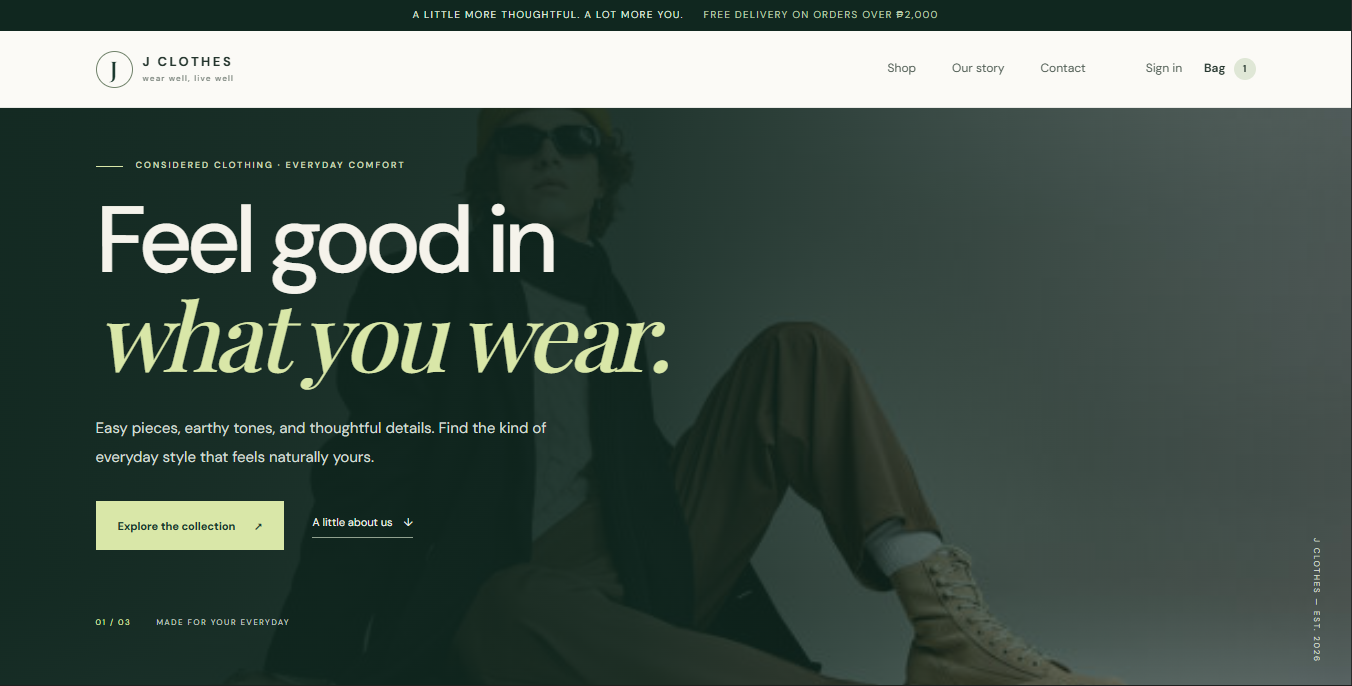
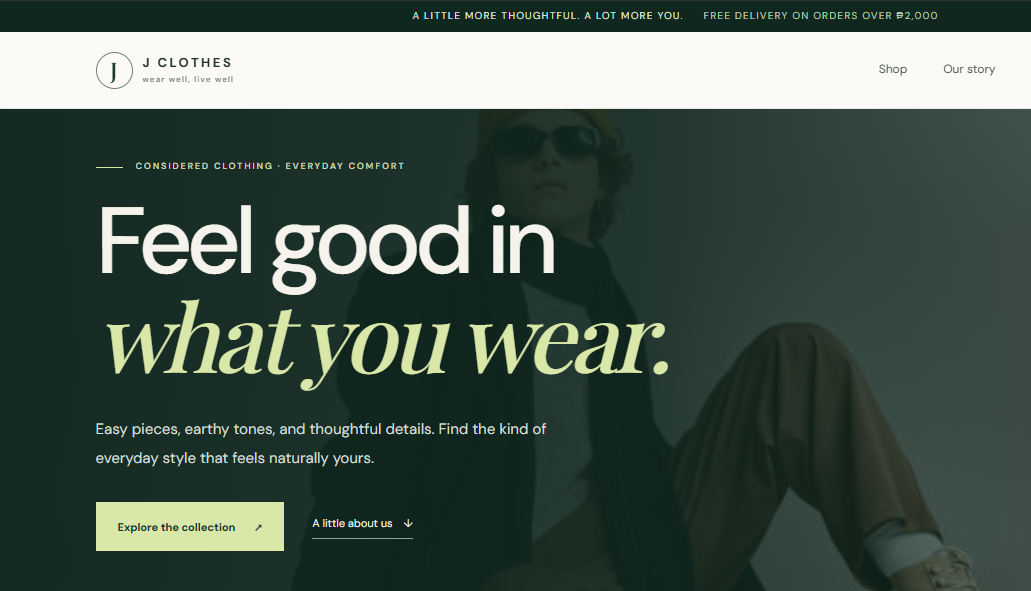
Update my portfolio

diff --git a/app/globals.css b/app/globals.css
@@ -241,9 +241,9 @@ a:hover .arrow-icon { transform: translate(2px, -2px); }
 
 .screenshot-board { min-height: 620px; background: #e7e9df; overflow: visible; }
 .screenshot-gallery { position: absolute; inset: 34px; }
-.screenshot { display: block; object-fit: cover; border: 1px solid rgba(16,27,24,.12); box-shadow: 0 18px 55px rgba(16,27,24,.18); background: #fbfcf8; image-rendering: auto; backface-visibility: hidden; transform: translateZ(0); }
-.screenshot-main { position: absolute; width: 78%; height: 520px; left: 2%; top: 18px; object-position: top center; z-index: 1; object-fit: contain; background: #fbfcf8; image-rendering: -webkit-optimize-contrast; max-width: 76%; }
-.screenshot-detail { position: absolute; width: 34%; height: 220px; object-position: top center; z-index: 3; object-fit: cover; image-rendering: high-quality; }
+.screenshot { display: block; object-fit: cover; border: 1px solid rgba(16,27,24,.12); box-shadow: 0 18px 55px rgba(16,27,24,.18); background: #fbfcf8; image-rendering: auto; }
+.screenshot-main { position: absolute; width: 78%; height: 520px; left: 2%; top: 18px; object-position: top center; z-index: 1; object-fit: contain; background: #fbfcf8; max-width: 76%; }
+.screenshot-detail { position: absolute; width: 34%; height: 220px; object-position: top center; z-index: 3; object-fit: cover; }
 .screenshot-detail-one { right: 2%; top: 62px; }
 .screenshot-detail-two { right: 8%; bottom: 18px; }
 .gallery-name { position:absolute; z-index:8; left:44px; bottom:18px; background:var(--ink); color:var(--lime); padding:8px 10px; font:9px var(--mono); letter-spacing:.8px; }

diff --git a/app/page.tsx b/app/page.tsx
@@ -244,7 +244,7 @@ function RecruiterView({ view, onChangeView, onShowPortfolio }: { view: ViewMode
 				</div>
 				<div className="recruiter-project-grid recruiter-personal-grid">
 					<article className="recruiter-project-card">
-						<img className="recruiter-project-image" src="/recruiter-images/j-clothes-landing.png" alt="J Clothes landing page" width="1352" height="686" loading="lazy" />
+						<img className="recruiter-project-image" src="/recruiter-images/j-clothes-landing.png" alt="J Clothes landing page" width="1031" height="591" loading="lazy" />
 						<div className="recruiter-project-copy">
 							<span className="recruiter-project-label">PERSONAL PROJECT / FULL-STACK</span>
 							<h3>J Clothes</h3>
